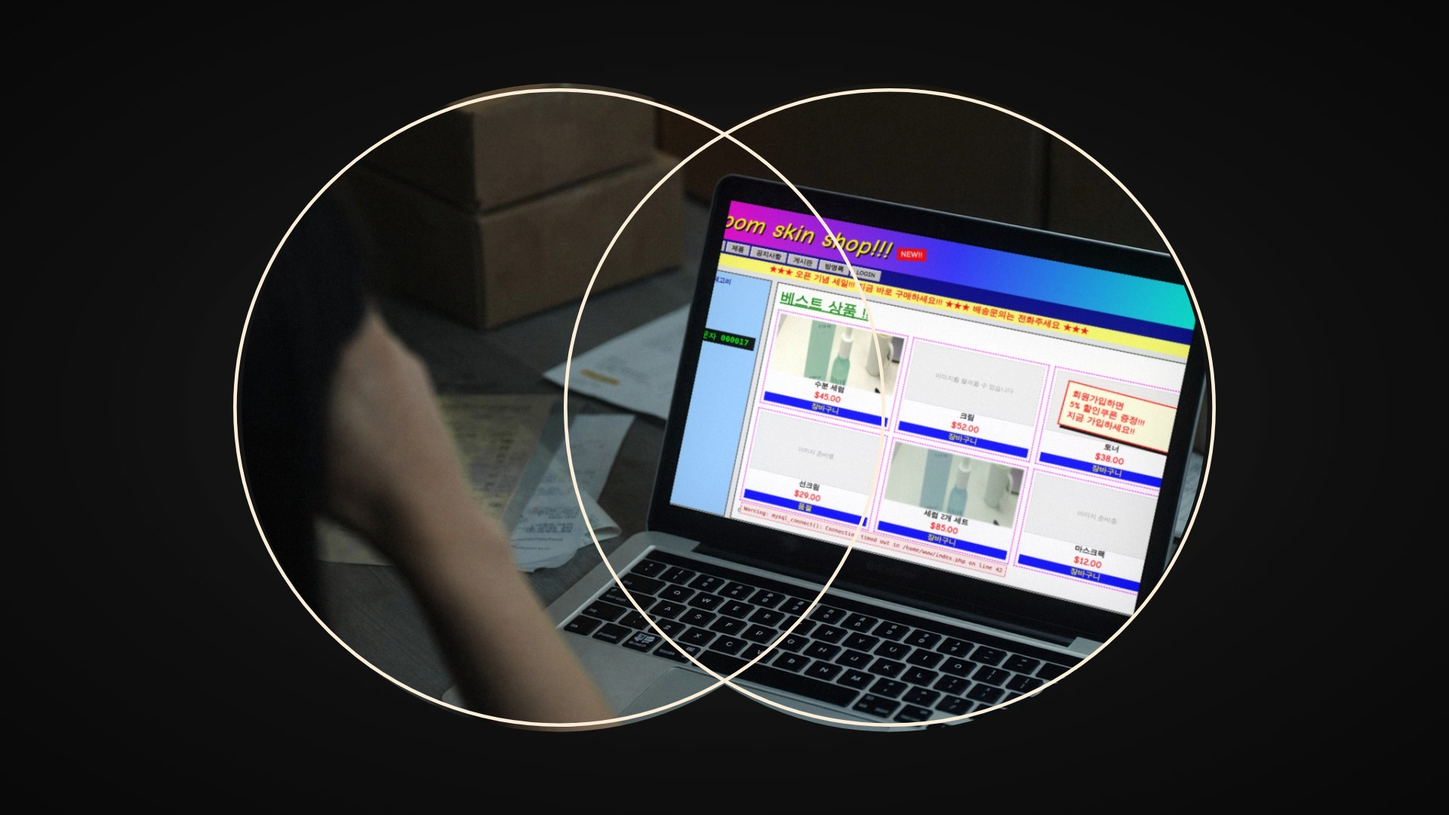
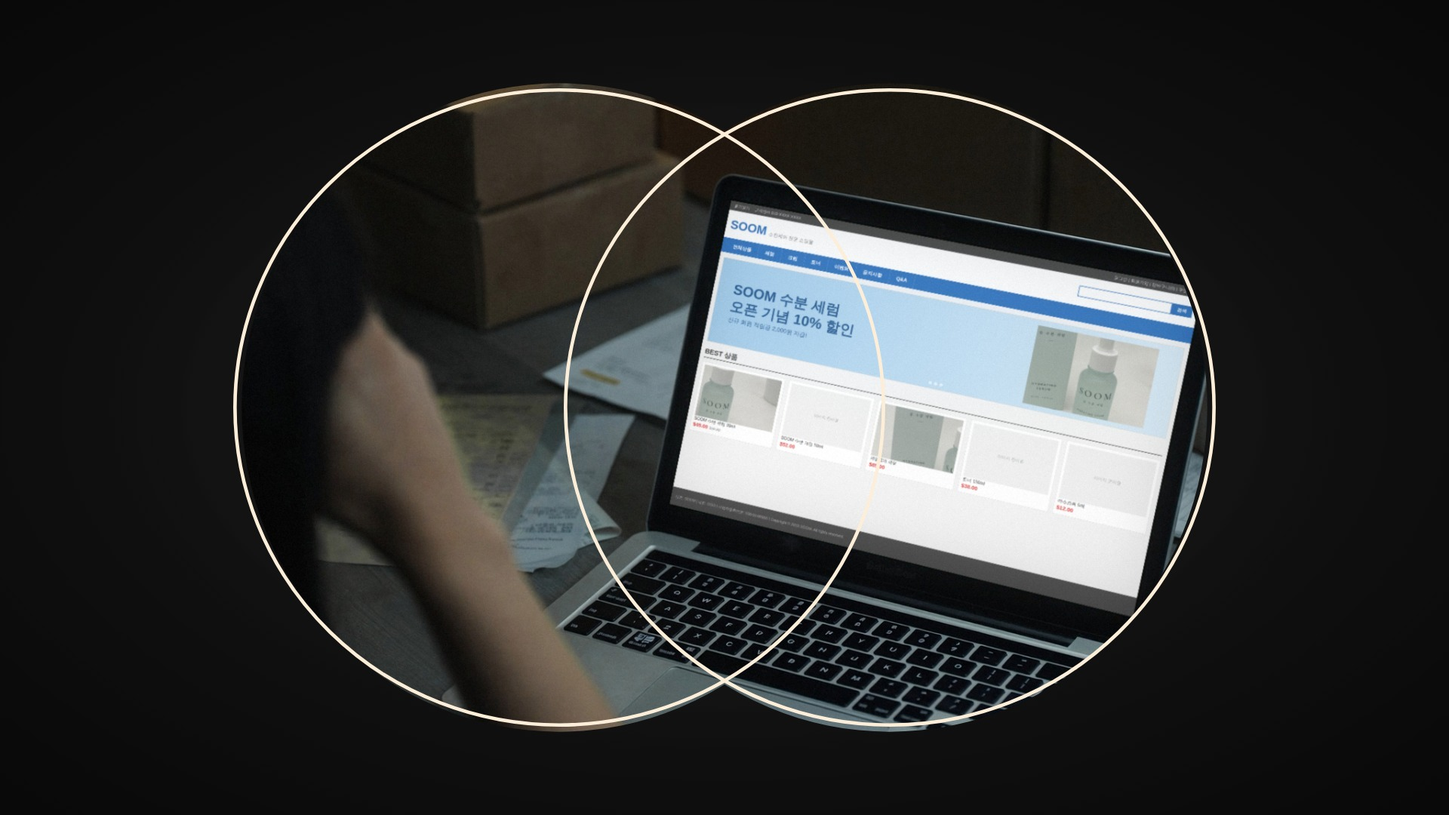
19차 콘티 보완: 후진 쇼핑몰을 과하지 않게, 실제 고객에 Blooming 추가
- 형광 그라데이션·코믹 글꼴·오류 문구를 빼고 오래된 쇼핑몰 템플릿 수준으로
- 실제 고객 장면에 Blooming(카페 손님 아이폰) 추가, 약 27초로 시간 조정
- 보드 번호·시간 갱신, 진행 상태 기록

Claude-Session: https://claude.ai/code/session_01GweQDuTCduZ8GdRrypzcWU

Changed region(s): [[0.4375, 0.2444, 0.8438, 0.7639]]

diff --git a/drafts/v19/board.html b/drafts/v19/board.html
@@ -7,7 +7,7 @@ h2{font-size:40px;margin:56px 0 24px;padding-left:18px;border-left:8px solid #E8
 .two{display:grid;grid-template-columns:1fr 1fr;gap:10px}
 .n{position:absolute;left:18px;top:16px;width:52px;height:52px;border-radius:50%;background:#F3EADB;color:#111;font:700 28px/52px M;text-align:center}
 figcaption{font-size:29px;margin-top:16px;line-height:1.4}figcaption b{color:#9d9487;margin-right:12px;font-size:26px}
-</style></head><body><h1>PAUSE STUDIO 첫 화면 영상 콘티 (약 25초, 무한 반복)</h1>
+</style></head><body><h1>PAUSE STUDIO 첫 화면 영상 콘티 (약 27초, 무한 반복)</h1>
 <p class="s">후진 쇼핑몰과 관리비에 지친 사장님 → PAUSE가 사진 한 장으로 광고 영상과 새 쇼핑몰을 → 주문은 늘고 유지보수비는 $0 → 실제 고객들 → 로고</p>
 <p style="font-size:26px;color:#9d9487">SOOM은 이 영상을 위해 만든 가상의 쇼핑몰입니다(실제 업체 아님).</p>
-<h2>고통 — 후진 쇼핑몰, 주문 0건, 쌓이는 관리비</h2><div class="g"><figure class=""><div class="ph"><img src="shots/s01-logo.jpg"><span class="n">1</span></div><figcaption><b>0:00</b> 로고로 시작</figcaption></figure><figure class=""><div class="ph"><img src="shots/s02-open.jpg"><span class="n">2</span></div><figcaption><b>0:01.5</b> 두 원이 렌즈처럼 열리며</figcaption></figure><figure class=""><div class="ph"><img src="shots/s03-pain-site.jpg"><span class="n">3</span></div><figcaption><b>0:02.5</b> 밤, 누가 봐도 후진 쇼핑몰 앞에서 머리를 감싼 사장님</figcaption></figure><figure class="w"><div class="ph"><div class="two"><img src="shots/s04-pain-phone.jpg"><img src="shots/s04b-pain-close.jpg"></div><span class="n">4</span></div><figcaption><b>0:04.5</b> 휴대폰 알림이 쌓임 → 다가가면: 오늘 주문 0건 · 유지보수비 $180 청구 · 호스팅 $320</figcaption></figure></div><h2>해결 — PAUSE STUDIO</h2><div class="g"><figure class=""><div class="ph"><img src="shots/s05-pause.jpg"><span class="n">5</span></div><figcaption><b>0:07</b> 화면이 "일시정지"되듯 멈추고 PAUSE의 두 원이 지나감</figcaption></figure><figure class=""><div class="ph"><img src="shots/s06-before.jpg"><span class="n">6</span></div><figcaption><b>0:08</b> 사장님이 휴대폰으로 찍은 제품 사진 한 장(박스·라벨 그대로)</figcaption></figure><figure class=""><div class="ph"><img src="shots/s07-promo-water.jpg"><span class="n">7</span></div><figcaption><b>0:09</b> → AI 홍보영상: 맑은 물가</figcaption></figure><figure class="w"><div class="ph"><div class="two"><img src="shots/s08-promo-silk.jpg"><img src="shots/s08b-promo-end.jpg"></div><span class="n">8</span></div><figcaption><b>0:10</b> → 세럼 물결 · 마무리 "Skin that breathes."</figcaption></figure><figure class=""><div class="ph"><img src="shots/s09-new-site.jpg"><span class="n">9</span></div><figcaption><b>0:11.5</b> 아침, 새 쇼핑몰 — 첫 화면에서 그 광고 영상이 재생</figcaption></figure><figure class="w"><div class="ph"><div class="two"><img src="shots/s10-orders-phone.jpg"><img src="shots/s10b-orders-close.jpg"></div><span class="n">10</span></div><figcaption><b>0:13.5</b> 새 주문 알림이 쌓이고 마지막 줄: PAUSE STUDIO · 유지보수비 $0</figcaption></figure></div><h2>실제 고객 웹사이트</h2><div class="g"><figure class=""><div class="ph"><img src="shots/s11-chemilife.jpg"><span class="n">11</span></div><figcaption><b>0:16</b> Chemilife</figcaption></figure><figure class=""><div class="ph"><img src="shots/s12-chillenq.jpg"><span class="n">12</span></div><figcaption><b>0:18</b> ChillenQ</figcaption></figure><figure class=""><div class="ph"><img src="shots/s13-kvibe.jpg"><span class="n">13</span></div><figcaption><b>0:20</b> K-VIBE</figcaption></figure><figure class=""><div class="ph"><img src="shots/s14-dongdaemun.jpg"><span class="n">14</span></div><figcaption><b>0:22</b> 동대문</figcaption></figure></div><h2>반복</h2><div class="g"><figure class=""><div class="ph"><img src="shots/s15-freeze.jpg"><span class="n">15</span></div><figcaption><b>0:24</b> 멈추며 두 원이 그려짐</figcaption></figure><figure class=""><div class="ph"><img src="shots/s01-logo.jpg"><span class="n">16</span></div><figcaption><b>0:25</b> 로고 = 처음 장면 → 끝없이 반복</figcaption></figure></div></body></html>
+<h2>고통 — 후진 쇼핑몰, 주문 0건, 쌓이는 관리비</h2><div class="g"><figure class=""><div class="ph"><img src="shots/s01-logo.jpg"><span class="n">1</span></div><figcaption><b>0:00</b> 로고로 시작</figcaption></figure><figure class=""><div class="ph"><img src="shots/s02-open.jpg"><span class="n">2</span></div><figcaption><b>0:01.5</b> 두 원이 렌즈처럼 열리며</figcaption></figure><figure class=""><div class="ph"><img src="shots/s03-pain-site.jpg"><span class="n">3</span></div><figcaption><b>0:02.5</b> 밤, 오래되고 촌스러운 쇼핑몰 앞에서 머리를 감싼 사장님</figcaption></figure><figure class="w"><div class="ph"><div class="two"><img src="shots/s04-pain-phone.jpg"><img src="shots/s04b-pain-close.jpg"></div><span class="n">4</span></div><figcaption><b>0:04.5</b> 휴대폰 알림이 쌓임 → 다가가면: 오늘 주문 0건 · 유지보수비 $180 청구 · 호스팅 $320</figcaption></figure></div><h2>해결 — PAUSE STUDIO</h2><div class="g"><figure class=""><div class="ph"><img src="shots/s05-pause.jpg"><span class="n">5</span></div><figcaption><b>0:07</b> 화면이 "일시정지"되듯 멈추고 PAUSE의 두 원이 지나감</figcaption></figure><figure class=""><div class="ph"><img src="shots/s06-before.jpg"><span class="n">6</span></div><figcaption><b>0:08</b> 사장님이 휴대폰으로 찍은 제품 사진 한 장(박스·라벨 그대로)</figcaption></figure><figure class=""><div class="ph"><img src="shots/s07-promo-water.jpg"><span class="n">7</span></div><figcaption><b>0:09</b> → AI 홍보영상: 맑은 물가</figcaption></figure><figure class="w"><div class="ph"><div class="two"><img src="shots/s08-promo-silk.jpg"><img src="shots/s08b-promo-end.jpg"></div><span class="n">8</span></div><figcaption><b>0:10</b> → 세럼 물결 · 마무리 "Skin that breathes."</figcaption></figure><figure class=""><div class="ph"><img src="shots/s09-new-site.jpg"><span class="n">9</span></div><figcaption><b>0:11.5</b> 아침, 새 쇼핑몰 — 첫 화면에서 그 광고 영상이 재생</figcaption></figure><figure class="w"><div class="ph"><div class="two"><img src="shots/s10-orders-phone.jpg"><img src="shots/s10b-orders-close.jpg"></div><span class="n">10</span></div><figcaption><b>0:13.5</b> 새 주문 알림이 쌓이고 마지막 줄: PAUSE STUDIO · 유지보수비 $0</figcaption></figure></div><h2>실제 고객 웹사이트</h2><div class="g"><figure class=""><div class="ph"><img src="shots/s11a-blooming.jpg"><span class="n">11</span></div><figcaption><b>0:16</b> Blooming — 카페 손님 아이폰</figcaption></figure><figure class=""><div class="ph"><img src="shots/s11-chemilife.jpg"><span class="n">12</span></div><figcaption><b>0:18</b> Chemilife</figcaption></figure><figure class=""><div class="ph"><img src="shots/s12-chillenq.jpg"><span class="n">13</span></div><figcaption><b>0:20</b> ChillenQ</figcaption></figure><figure class=""><div class="ph"><img src="shots/s13-kvibe.jpg"><span class="n">14</span></div><figcaption><b>0:22</b> K-VIBE</figcaption></figure><figure class=""><div class="ph"><img src="shots/s14-dongdaemun.jpg"><span class="n">15</span></div><figcaption><b>0:24</b> 동대문</figcaption></figure></div><h2>반복</h2><div class="g"><figure class=""><div class="ph"><img src="shots/s15-freeze.jpg"><span class="n">16</span></div><figcaption><b>0:26</b> 멈추며 두 원이 그려짐</figcaption></figure><figure class=""><div class="ph"><img src="shots/s01-logo.jpg"><span class="n">17</span></div><figcaption><b>0:27</b> 로고 = 처음 장면 → 끝없이 반복</figcaption></figure></div></body></html>

diff --git a/drafts/v19/screens/ugly-site.html b/drafts/v19/screens/ugly-site.html
@@ -1,32 +1,30 @@
-<!doctype html><html><head><meta charset="utf-8"><link href="https://fonts.googleapis.com/css2?family=Comic+Neue:wght@700&family=Nanum+Pen+Script&display=swap" rel="stylesheet"><style>
-*{margin:0;padding:0;box-sizing:border-box}html,body{width:1920px;height:1200px;overflow:hidden;background:#E6E6E6;font-family:'Comic Neue',sans-serif}
-.top{height:150px;background:linear-gradient(90deg,#FF00CC,#3333FF,#00FFCC);display:flex;align-items:center;padding-left:40px}
-.top h1{font:700 92px/1 'Comic Neue';color:#FFFF00;text-shadow:5px 5px 0 #000;font-style:italic}
-.top span{margin-left:30px;font:700 30px/1 'Comic Neue';color:#fff;background:red;padding:8px 14px;transform:rotate(-8deg)}
-.nav{height:56px;background:#000080;display:flex;gap:6px;padding:8px}.nav a{background:#C0C0C0;border:3px outset #fff;font:700 24px/34px 'Comic Neue';padding:0 18px;color:#000}
-.mq{height:46px;background:#FFFF66;color:#FF0000;font:700 30px/46px 'Comic Neue';white-space:nowrap;overflow:hidden;padding-left:300px}
-.wrap{display:flex;padding:20px;gap:20px}
-.side{width:300px;background:#99CCFF;border:4px ridge #888;padding:14px;font:700 24px/1.6 'Comic Neue';color:#000080}
-.side .cnt{margin-top:20px;background:#000;color:#0F0;font:700 30px/1 monospace;padding:10px;text-align:center}
-.main{flex:1;background:#fff;border:4px ridge #888;padding:20px;position:relative}
-.main h2{font:700 54px/1.1 'Comic Neue';color:#008000;text-decoration:underline}
-.grid{display:grid;grid-template-columns:repeat(3,1fr);gap:18px;margin-top:20px}
-.p{border:3px dashed #f0f;padding:10px;text-align:center;font:700 26px/1.3 'Comic Neue'}
-.p .im{height:220px;background:#ddd url(src/before.png) 50% 40%/100% 260%;filter:saturate(2.2) contrast(1.5) blur(1.2px)}
-.p .x{height:220px;background:#eee;display:flex;align-items:center;justify-content:center;font:400 22px/1 sans-serif;color:#999;border:1px solid #bbb}
-.p b{color:red;font-size:34px}.p em{display:block;margin-top:6px;background:#00f;color:#ff0;font-style:normal}
-.pop{position:absolute;right:40px;top:150px;width:420px;background:#FFFFE0;border:4px solid red;box-shadow:10px 10px 0 #000;padding:20px;font:700 30px/1.3 'Comic Neue';color:red;transform:rotate(3deg)}
-.pop i{position:absolute;right:10px;top:4px;font-style:normal;color:#000}
-.err{position:absolute;left:30px;bottom:24px;font:400 20px/1.3 monospace;color:#900;background:#fee;border:1px solid #c00;padding:8px 12px}
+<!doctype html><html><head><meta charset="utf-8"><style>
+*{margin:0;padding:0;box-sizing:border-box}html,body{width:1920px;height:1200px;overflow:hidden;background:#F2F2F2;font-family:Gulim,'Malgun Gothic','Noto Sans KR',Arial,sans-serif;color:#333}
+.topbar{height:36px;background:#444;color:#ccc;font-size:15px;line-height:36px;padding:0 120px;display:flex;gap:20px}.topbar .r{margin-left:auto}
+header{height:110px;background:#fff;border-bottom:3px solid #2A6EBB;display:flex;align-items:center;padding:0 120px}
+.logo{font:bold 46px/1 Arial,sans-serif;color:#2A6EBB}.logo small{font-size:18px;color:#888;margin-left:10px;font-weight:normal}
+.search{margin-left:auto;display:flex}.search i{width:320px;height:40px;border:2px solid #2A6EBB}.search b{width:70px;height:40px;background:#2A6EBB;color:#fff;font:bold 16px/40px Arial;text-align:center}
+nav{height:54px;background:#2A6EBB;display:flex;padding:0 120px}nav a{color:#fff;font:bold 18px/54px Arial;padding:0 26px;border-right:1px solid #5590d0}
+.banner{margin:20px 120px 0;height:330px;background:linear-gradient(90deg,#9FC9E8,#D7EAF6);position:relative;overflow:hidden;border:1px solid #ccc}
+.banner .im{position:absolute;right:80px;top:20px;width:420px;height:290px;background:url(src/before.png) 55% 50%/230% auto;filter:contrast(1.05)}
+.banner h2{position:absolute;left:60px;top:80px;font:bold 54px/1.2 Arial;color:#1D4F86}.banner p{position:absolute;left:62px;top:220px;font:22px/1 Arial;color:#2A5A90}
+.banner .dots{position:absolute;bottom:14px;left:50%;display:flex;gap:8px}.banner .dots i{width:12px;height:12px;border-radius:50%;background:#fff;opacity:.6}
+.sec{margin:26px 120px 0}.sec h3{font:bold 26px/1 Arial;border-bottom:2px solid #333;padding-bottom:10px}
+.grid{display:grid;grid-template-columns:repeat(5,1fr);gap:16px;margin-top:16px}
+.p{background:#fff;border:1px solid #ddd;padding:10px;font:16px/1.4 Arial}.p .im{height:200px;background:#eee url(src/before.png) 72% 55%/300% auto;filter:blur(.6px) saturate(.8)}
+.p .im.na{background:#eee;display:flex;align-items:center;justify-content:center;color:#aaa;font-size:15px;filter:none}
+.p b{color:#D33;font-size:19px}.p s{color:#999;font-size:14px;margin-left:6px}
+footer{position:absolute;left:0;right:0;bottom:0;height:70px;background:#444;color:#aaa;font:14px/70px Arial;padding:0 120px}
 </style></head><body>
-<div class="top"><h1>soom skin shop!!!</h1><span>NEW!!</span></div>
-<div class="nav"><a>HOME</a><a>제품</a><a>공지사항</a><a>게시판</a><a>방명록</a><a>LOGIN</a></div>
-<div class="mq">★★★ 오픈 기념 세일!!! 지금 바로 구매하세요!!! ★★★ 배송문의는 전화주세요 ★★★</div>
-<div class="wrap"><div class="side">▶ 카테고리<br>- 세럼<br>- 크림<br>- 토너<br>- 기타<br><div class="cnt">방문자 000017</div></div>
-<div class="main"><h2>베스트 상품 !!</h2><div class="grid">
-<div class="p"><div class="im"></div>수분 세럼<br><b>$45.00</b><em>장바구니</em></div>
-<div class="p"><div class="x">이미지를 불러올 수 없습니다</div>크림<br><b>$52.00</b><em>장바구니</em></div>
-<div class="p"><div class="x">이미지를 불러올 수 없습니다</div>토너<br><b>$38.00</b><em>장바구니</em></div><div class="p"><div class="x">이미지 준비중</div>선크림<br><b>$29.00</b><em>품절</em></div><div class="p"><div class="im" style="filter:saturate(2.5) hue-rotate(40deg) blur(2px)"></div>세럼 2개 세트<br><b>$85.00</b><em>장바구니</em></div><div class="p"><div class="x">이미지 준비중</div>마스크팩<br><b>$12.00</b><em>장바구니</em></div></div>
-<div class="pop"><i>✕</i>회원가입하면<br>5% 할인쿠폰 증정!!!<br>지금 가입하세요!!</div>
-<p style="margin-top:22px;font:700 22px/1.4 'Comic Neue';color:#555">Copyright (c) 2019 soom skin shop. All rights reserved. | 사업자 정보 | 이용약관</p><div class="err">Warning: mysql_connect(): Connection timed out in /home/www/index.php on line 42</div></div></div>
+<div class="topbar"><span>즐겨찾기</span><span>고객센터 010-XXXX-XXXX</span><span class="r">로그인 | 회원가입 | 장바구니(0) | 주문조회</span></div>
+<header><span class="logo">SOOM<small>스킨케어 전문 쇼핑몰</small></span><div class="search"><i></i><b>검색</b></div></header>
+<nav><a>전체상품</a><a>세럼</a><a>크림</a><a>토너</a><a>이벤트</a><a>공지사항</a><a>Q&amp;A</a></nav>
+<div class="banner"><h2>SOOM 수분 세럼<br>오픈 기념 10% 할인</h2><p>신규 회원 적립금 2,000원 지급!</p><div class="im"></div><div class="dots"><i></i><i></i><i></i></div></div>
+<div class="sec"><h3>BEST 상품</h3><div class="grid">
+<div class="p"><div class="im"></div>SOOM 수분 세럼 30ml<br><b>$45.00</b><s>$50.00</s></div>
+<div class="p"><div class="im na">이미지 준비중</div>SOOM 수분 크림 50ml<br><b>$52.00</b></div>
+<div class="p"><div class="im" style="background-position:30% 40%"></div>세럼 2개 세트<br><b>$85.00</b></div>
+<div class="p"><div class="im na">이미지 준비중</div>토너 150ml<br><b>$38.00</b></div>
+<div class="p"><div class="im na">이미지 준비중</div>마스크팩 5매<br><b>$12.00</b></div></div></div>
+<footer>상호: SOOM | 대표: OOO | 사업자등록번호: 000-00-00000 | Copyright © 2019 SOOM. All rights reserved.</footer>
 </body></html>

diff --git a/tools/storyboard_v19.py b/tools/storyboard_v19.py
@@ -1,4 +1,4 @@
-"""19차(18차 흐름 유지 — 패키지가 있는 제품 사진, 레퍼런스처럼 절제된 광고 장면, 실제 앱 같은 알림 아이콘): 문제 → 해결 — 가상의 한인 스킨케어 쇼핑몰 SOOM(실제 업체 아님)
+"""19차(18차 흐름 유지, 후진 쇼핑몰은 과하지 않게 오래된 템플릿 수준, 실제 고객에 Blooming 포함 — 패키지가 있는 제품 사진, 레퍼런스처럼 절제된 광고 장면, 실제 앱 같은 알림 아이콘): 문제 → 해결 — 가상의 한인 스킨케어 쇼핑몰 SOOM(실제 업체 아님)
 고통: 밤, 후진 쇼핑몰·주문 0건·유지보수비/호스팅 청구 알림 → PAUSE 전환(두 원) → 휴대폰 제품 사진 → AI 홍보영상(초고속 물방울·뉴질랜드 해변)
 → 아침, 새 쇼핑몰(히어로 영상) → 새 주문 알림 + '유지보수비 $0' → 실제 고객 사이트 4곳 → 멈추며 로고(무한 반복)
 실행: python3 tools/storyboard_v18.py
@@ -57,7 +57,8 @@ def main():
     phone_close('solve-notif', 566, 's10b-orders-close')
     k = cv2.imread(str(ROOT / 'drafts' / 'v10' / 'screens' / 'src' / 'kvibe_5.png'))
     composite('s13-kvibe', 'v16-kvibe', k[:, :int(k.shape[0] * 1.55)], gain=1.0, **LOOK)
-    for src, dst in [(ROOT / 'drafts' / 'v12' / 'shots' / 'c4-home_chemilife.jpg', 's11-chemilife'),
+    for src, dst in [(ROOT / 'drafts' / 'v12' / 'shots' / 'c3-cafe_blooming.jpg', 's11a-blooming'),
+                     (ROOT / 'drafts' / 'v12' / 'shots' / 'c4-home_chemilife.jpg', 's11-chemilife'),
                      (ROOT / 'drafts' / 'v16' / 'shots' / 'c8-workshop_chillenq.jpg', 's12-chillenq'),
                      (ROOT / 'drafts' / 'v12' / 'shots' / 'c7-night_dongdaemun.jpg', 's14-dongdaemun'),
                      (ROOT / 'drafts' / 'v14' / 'shots' / 'loop-1-freeze.jpg', 's15-freeze'),

diff --git a/STATE.md b/STATE.md
@@ -9,7 +9,7 @@
 - 2차 히어로 시안 5개(`drafts/v2/`) → 사용자 평가: **다 별로. 로고를 메인으로 쓸 필요 없음. 영상이 '퍼온 게 아니라 직접 만든 것'으로 보여야 함.**
 - 전략 수립: `docs/HERO_VIDEO_STRATEGY.md` (실제 작업물·만드는 과정·한글 조립·방문자 반응 중심, 다음 시안은 움직이는 프로토타입). 추가 조건: **무한 반복해도 어색하지 않을 것 + 유지보수/관리비 무료 강조**(전략 문서에 반영). 
 - 사용자 확인(2026-10-06): ① **홍보영상 제작도 한다고 내세워도 됨** ② **실제 작업물 노출 OK — 사이트에서 좋은 것 골라 알아서** ③ 달 이름(1월~12월) 표기는 시안에 넣고 확인받기.
-- 진행: 3단 구조(후킹 인트로 → 무한 반복 작업물 벽 + 관리비 0원 → 고정 문구) 움직이는 시안 1개 → `drafts/v3/` (hero.html, MP4 2개, README). 반복 구간은 시간의 순수 함수라 첫·끝 프레임 일치 검증. → 사용자 피드백: 영상 느낌 없음(웹 효과 같음)·다이얼 최악·로고 작고 약함·폰트 기본 AI 같음. 4차 방향(영화 콘티) `docs/HERO_VIDEO_STRATEGY.md` 하단. → 사용자: 영상 전에 사진으로 느낌 먼저. 4차 콘티 스틸 완료 `drafts/v4/`(장면 4컷 실제 작업물 합성 + 첫 화면 서체 3안 A 격동명조2·B 정체·C AG 최정호, 보드 PAUSE_v4_storyboard.png). → 사용자: 칙칙하고 가난해 보임, 노트북은 애플로. → **5차 콘티 스틸 `drafts/v5/`**: 햇빛 드는 고급 공간(오크·대리석·트래버틴·생화) + Studio Display·MacBook Pro·iPhone, 실제 작업물 합성(`tools/storyboard_v5.py`), 첫 화면 밝은 버전 서체 3안(`tools/typeset_v5.py`, 캡처 `DRAFT_DIR=drafts/v5 node tools/capture_v4.cjs`), 보드 `PAUSE_v5_storyboard.png`. **서체·느낌 피드백 대기 → 확정 후 영상(Seedance) 제작.** 장면 B안(미사용)은 `higgsfield/raw/v5-*-b`. → 사용자: 같은 장면을 여러 장 보낸 것 지적, 너무 세팅된 가짜 느낌·영상미 없음. → **6차 `drafts/v6/`**: 사람이 일하는 실제 순간(스튜디오 밤·케이크 주방 아침·횡단보도 해 질 녘·비 오는 밤 식당), 장면당 1장, 보드 1장 `PAUSE_v6_storyboard.png`(`tools/storyboard_v6.py`). **규칙: 장면당 1장만 생성, 결과는 보드 1장으로만 보낸다.** → 사용자: 느낌 아주 좋음. 업체 정보 확정 — **K-VIBE=유학원·여행사, BLOOMING=케이크, 동대문=한식 주점(한 번만 사용), ChillenQ=냉장 설비 대기업(원본 `content/assets/portfolio/originals/chillenq_desktop_hero.webp`, 더 멋지게 리디자인 허용)**. 배경 뉴질랜드, 주인공 한국인, 주변인 현지인. 휴대폰 장면은 모바일 레이아웃으로. 소리 없는 영상. 길이는 히어로에 맞게 억지로 늘리거나 줄이지 않음. 크레딧은 사용자가 충전 예정. → **7차 `drafts/v7/`**: 6컷 약 21초(촬영 모니터→손님 휴대폰 매치컷 후킹, 편집 화면→첫 컷 모니터로 반복), 화면 재구성 `drafts/v7/screens/*.html`(캡처 `tools/capture_screens_v7.cjs`), 합성 `tools/storyboard_v7.py`, 보드 `PAUSE_v7_storyboard.png`. 자막은 HTML 오버레이(초안 문구). → **사용자 정정: PAUSE는 촬영하지 않음. '영상제작' = 업체가 가진 사진·이미지로 만드는 AI 홍보영상.** 컷 1(카메라 촬영)·컷 6(스튜디오 카메라)은 사실과 달라 교체 필요. 자막 방식에 대한 의견 요청 → 의견: 흘러가는 자막 대신 화면 속 글자(휴대폰 채팅·사이트 화면)로 이야기하고, 핵심 문구는 히어로의 고정 제목·버튼이 담당. → **8차 `drafts/v8/`**("사진만 보내주세요"): 사장님이 채팅으로 사진 전송 → 사진이 AI 홍보영상으로 → 손님 휴대폰 속 사이트 → 동대문·ChillenQ·K-VIBE → 작업실 알림으로 반복, 7컷 약 21초, 자막 없음. 화면 `drafts/v8/screens`(캡처 `tools/capture_screens_v8.cjs`), 합성 `tools/storyboard_v8.py`, 보드 `PAUSE_v8_storyboard.png`. → 사용자: ChillenQ 사이트 안 예쁨·장면이 설정샷, 사이트 화면은 살짝 바꿔도 되니 제대로 보이게, 사이트 히어로는 영상, 동대문 실제 가게 사진 전달(검은 간판 DONG DE MOON·유리문·바깥 흰 의자 — 제3자 리뷰 사진이라 저장소에 넣지 않음). **라이브 사이트 접속은 사용자가 거절 → 하지 않음.** → **9차 `drafts/v9/`**: 동대문 간판 합성(`ddm-sign.html`), ChillenQ 실제 작업장 장면 + 밝은 리디자인(제품 사진은 시안용 생성 이미지에 실제 로고, 실제 제작 땐 원본으로 교체), 히어로 재생 표시, 합성 `tools/storyboard_v9.py`, 보드 `PAUSE_v9_storyboard.png`. → 사용자: 로고로 끝나고 그 모습에서 다시 시작하는 무한 루프, 동대문이 실제 사진과 너무 다름, **실사 카메라 화질·초점(AI 티 금지)이 중요.** → **10차 `drafts/v10/`**: 전 장면을 실제 카메라·렌즈 기준 프롬프트로 재생성(soul/cinema가 모델 비교에서 가장 실사적), 동대문 화강암 벽·검은 간판·유리문·크림색 의자, 합성에 유리 반사·LCD 검정·미세 부드러움, 로고 루프(멈춤→두 원 그리기→로고 카드=첫 프레임→두 원이 렌즈처럼 열리며 컷 1, `drafts/v10/screens/loop-*.html`), 약 24초. 합성 `tools/storyboard_v10.py`, 보드 `PAUSE_v10_storyboard.png`. → 사용자: 동대문이 아직 사진과 다름, 밤, 현지인·한국인이 막걸리(금색 주전자)·소주로 신나게, 사장님 얼굴 금지. → **11차 `drafts/v11/`**: 사용자 사진 2장을 참고 이미지로 qwen-image-3/edit → 실제 가게 그대로(간판·포스터·DDM 네온), 사장님 뒷모습. 참고 사진·업로드 주소는 저장소에 넣지 않음(.gitignore, 기록 마스킹). 보드 `PAUSE_v11_storyboard.png`. → 사용자: 흐릿한 이미지는 알아서 개선, 동대문 사람들이 과장돼 AI 티, **Chemilife(Ref.09, 건강기능식품 온라인 주문 쇼핑몰) 추가**, AI 홍보영상 제작을 표현. → **12차 `drafts/v12/`**: 8컷 약 27초(+로고 루프), 컷 2를 'AI 홍보영상 생성' 화면으로, 케이크 고화질(qwen edit), Chemilife 모바일(`chemilife-mobile.html`), 동대문 자연스럽게(초점 휴대폰), 합성 `tools/storyboard_v12.py`, 캡처 `tools/capture_screens_v12.cjs`, 보드 `PAUSE_v12_storyboard.png`. → 사용자: 화면 속 글자가 안 보임. → **13차 `drafts/v13/`**: 이야기 전하는 컷(1 채팅·2 AI 홍보영상·8 알림)을 화면 클로즈업/전체 화면으로, 글자 크게, 휴대폰 너비 390px 미리보기로 가독성 확인. **규칙: 화면 속 글자는 390px 너비에서도 읽혀야 함.** 보드 `PAUSE_v13_storyboard.png`. → 사용자: 콘티 이해 안 됨, 채팅의 파비콘·'사진만 보내주세요 → AI 홍보영상 + 웹사이트' 문구가 허접함, AI 영상 예시는 Blooming 말고 **가상의 레퍼런스**로. → **14차 `drafts/v14/`(현재안)**: 채팅·파비콘·설명 문구 전부 제거. 가상 카페 ONDO COFFEE(실제 업체 아님): 평범한 사진 → 빛이 지나가며 광고 장면 → 그 영상이 걸린 ONDO 웹사이트(`screens/ondo-laptop.html`) → 실제 고객 사이트 4곳(Chemilife·ChillenQ·K-VIBE·동대문) → 멈추며 로고 → 로고로 다시 시작. 약 21초. 합성 `tools/storyboard_v14.py`, 번호 매긴 단순 보드 `PAUSE_v14_storyboard.png`. → 사용자: 5번 AI 영상 부자연스러움(15차에서 자연스럽게 했으나 '커피 김만 나는 건 홍보영상이 아님, 기술력을 보여줘야'), 8·9번 구도가 설정샷(16차 `drafts/v16`에서 옆에서 찍은 듯한 구도로 재생성), 관리비·유지보수비 무료를 알 수 있게, 로고 초점 오프닝은 아주 좋음, **허접한 웹사이트로 고통받는 내용(주문 0건·관리비·호스팅비 스트레스)을 레퍼런스와 다른 새 쇼핑몰로.** 후보는 보여주지 말 것. → **18차 `drafts/v18/`(현재안)**: 가상 스킨케어 쇼핑몰 SOOM(실제 업체 아님). 고통(후진 쇼핑몰·주문 0건·유지보수비 $180·호스팅 $320 알림) → PAUSE 두 원 전환 → 휴대폰 제품 사진 → AI 광고(초고속 물방울·뉴질랜드 해변, 라벨 합성) → 새 쇼핑몰 → 새 주문 + 'PAUSE STUDIO · 유지보수비 $0' → 실제 고객 4곳 → 로고 루프, 약 25초. 화면 `drafts/v18/screens`, 합성 `tools/storyboard_v18.py`, 보드 `PAUSE_v18_storyboard.png`. → 사용자: 앱 아이콘 이상·허접, 포장 없는 병이 광고가 되는 건 어색(패키지가 있어야), 광고 장면 과하고 촌스러움 — 레퍼런스 4장(맑은 물·조개, 파스텔 세럼 물결, 립스틱 매크로+세리프 글자, K-뷰티 캠페인; 제3자 이미지라 저장소에 넣지 않음). → **19차 `drafts/v19/`(현재안)**: SOOM 패키지 디자인(`pack/box.html`·`label.html`) → 그 패키지를 찍은 평범한 사진 → 절제된 광고 장면(맑은 물가·세럼 물결·마무리 'Skin that breathes. / 숨 쉬는 피부'), 밝은 톤 새 쇼핑몰, iOS식 알림 아이콘(PAUSE는 두 원 로고 마크). 합성 `tools/storyboard_v19.py`, 보드 `PAUSE_v19_storyboard.png`. 피드백 대기.
+- 진행: 3단 구조(후킹 인트로 → 무한 반복 작업물 벽 + 관리비 0원 → 고정 문구) 움직이는 시안 1개 → `drafts/v3/` (hero.html, MP4 2개, README). 반복 구간은 시간의 순수 함수라 첫·끝 프레임 일치 검증. → 사용자 피드백: 영상 느낌 없음(웹 효과 같음)·다이얼 최악·로고 작고 약함·폰트 기본 AI 같음. 4차 방향(영화 콘티) `docs/HERO_VIDEO_STRATEGY.md` 하단. → 사용자: 영상 전에 사진으로 느낌 먼저. 4차 콘티 스틸 완료 `drafts/v4/`(장면 4컷 실제 작업물 합성 + 첫 화면 서체 3안 A 격동명조2·B 정체·C AG 최정호, 보드 PAUSE_v4_storyboard.png). → 사용자: 칙칙하고 가난해 보임, 노트북은 애플로. → **5차 콘티 스틸 `drafts/v5/`**: 햇빛 드는 고급 공간(오크·대리석·트래버틴·생화) + Studio Display·MacBook Pro·iPhone, 실제 작업물 합성(`tools/storyboard_v5.py`), 첫 화면 밝은 버전 서체 3안(`tools/typeset_v5.py`, 캡처 `DRAFT_DIR=drafts/v5 node tools/capture_v4.cjs`), 보드 `PAUSE_v5_storyboard.png`. **서체·느낌 피드백 대기 → 확정 후 영상(Seedance) 제작.** 장면 B안(미사용)은 `higgsfield/raw/v5-*-b`. → 사용자: 같은 장면을 여러 장 보낸 것 지적, 너무 세팅된 가짜 느낌·영상미 없음. → **6차 `drafts/v6/`**: 사람이 일하는 실제 순간(스튜디오 밤·케이크 주방 아침·횡단보도 해 질 녘·비 오는 밤 식당), 장면당 1장, 보드 1장 `PAUSE_v6_storyboard.png`(`tools/storyboard_v6.py`). **규칙: 장면당 1장만 생성, 결과는 보드 1장으로만 보낸다.** → 사용자: 느낌 아주 좋음. 업체 정보 확정 — **K-VIBE=유학원·여행사, BLOOMING=케이크, 동대문=한식 주점(한 번만 사용), ChillenQ=냉장 설비 대기업(원본 `content/assets/portfolio/originals/chillenq_desktop_hero.webp`, 더 멋지게 리디자인 허용)**. 배경 뉴질랜드, 주인공 한국인, 주변인 현지인. 휴대폰 장면은 모바일 레이아웃으로. 소리 없는 영상. 길이는 히어로에 맞게 억지로 늘리거나 줄이지 않음. 크레딧은 사용자가 충전 예정. → **7차 `drafts/v7/`**: 6컷 약 21초(촬영 모니터→손님 휴대폰 매치컷 후킹, 편집 화면→첫 컷 모니터로 반복), 화면 재구성 `drafts/v7/screens/*.html`(캡처 `tools/capture_screens_v7.cjs`), 합성 `tools/storyboard_v7.py`, 보드 `PAUSE_v7_storyboard.png`. 자막은 HTML 오버레이(초안 문구). → **사용자 정정: PAUSE는 촬영하지 않음. '영상제작' = 업체가 가진 사진·이미지로 만드는 AI 홍보영상.** 컷 1(카메라 촬영)·컷 6(스튜디오 카메라)은 사실과 달라 교체 필요. 자막 방식에 대한 의견 요청 → 의견: 흘러가는 자막 대신 화면 속 글자(휴대폰 채팅·사이트 화면)로 이야기하고, 핵심 문구는 히어로의 고정 제목·버튼이 담당. → **8차 `drafts/v8/`**("사진만 보내주세요"): 사장님이 채팅으로 사진 전송 → 사진이 AI 홍보영상으로 → 손님 휴대폰 속 사이트 → 동대문·ChillenQ·K-VIBE → 작업실 알림으로 반복, 7컷 약 21초, 자막 없음. 화면 `drafts/v8/screens`(캡처 `tools/capture_screens_v8.cjs`), 합성 `tools/storyboard_v8.py`, 보드 `PAUSE_v8_storyboard.png`. → 사용자: ChillenQ 사이트 안 예쁨·장면이 설정샷, 사이트 화면은 살짝 바꿔도 되니 제대로 보이게, 사이트 히어로는 영상, 동대문 실제 가게 사진 전달(검은 간판 DONG DE MOON·유리문·바깥 흰 의자 — 제3자 리뷰 사진이라 저장소에 넣지 않음). **라이브 사이트 접속은 사용자가 거절 → 하지 않음.** → **9차 `drafts/v9/`**: 동대문 간판 합성(`ddm-sign.html`), ChillenQ 실제 작업장 장면 + 밝은 리디자인(제품 사진은 시안용 생성 이미지에 실제 로고, 실제 제작 땐 원본으로 교체), 히어로 재생 표시, 합성 `tools/storyboard_v9.py`, 보드 `PAUSE_v9_storyboard.png`. → 사용자: 로고로 끝나고 그 모습에서 다시 시작하는 무한 루프, 동대문이 실제 사진과 너무 다름, **실사 카메라 화질·초점(AI 티 금지)이 중요.** → **10차 `drafts/v10/`**: 전 장면을 실제 카메라·렌즈 기준 프롬프트로 재생성(soul/cinema가 모델 비교에서 가장 실사적), 동대문 화강암 벽·검은 간판·유리문·크림색 의자, 합성에 유리 반사·LCD 검정·미세 부드러움, 로고 루프(멈춤→두 원 그리기→로고 카드=첫 프레임→두 원이 렌즈처럼 열리며 컷 1, `drafts/v10/screens/loop-*.html`), 약 24초. 합성 `tools/storyboard_v10.py`, 보드 `PAUSE_v10_storyboard.png`. → 사용자: 동대문이 아직 사진과 다름, 밤, 현지인·한국인이 막걸리(금색 주전자)·소주로 신나게, 사장님 얼굴 금지. → **11차 `drafts/v11/`**: 사용자 사진 2장을 참고 이미지로 qwen-image-3/edit → 실제 가게 그대로(간판·포스터·DDM 네온), 사장님 뒷모습. 참고 사진·업로드 주소는 저장소에 넣지 않음(.gitignore, 기록 마스킹). 보드 `PAUSE_v11_storyboard.png`. → 사용자: 흐릿한 이미지는 알아서 개선, 동대문 사람들이 과장돼 AI 티, **Chemilife(Ref.09, 건강기능식품 온라인 주문 쇼핑몰) 추가**, AI 홍보영상 제작을 표현. → **12차 `drafts/v12/`**: 8컷 약 27초(+로고 루프), 컷 2를 'AI 홍보영상 생성' 화면으로, 케이크 고화질(qwen edit), Chemilife 모바일(`chemilife-mobile.html`), 동대문 자연스럽게(초점 휴대폰), 합성 `tools/storyboard_v12.py`, 캡처 `tools/capture_screens_v12.cjs`, 보드 `PAUSE_v12_storyboard.png`. → 사용자: 화면 속 글자가 안 보임. → **13차 `drafts/v13/`**: 이야기 전하는 컷(1 채팅·2 AI 홍보영상·8 알림)을 화면 클로즈업/전체 화면으로, 글자 크게, 휴대폰 너비 390px 미리보기로 가독성 확인. **규칙: 화면 속 글자는 390px 너비에서도 읽혀야 함.** 보드 `PAUSE_v13_storyboard.png`. → 사용자: 콘티 이해 안 됨, 채팅의 파비콘·'사진만 보내주세요 → AI 홍보영상 + 웹사이트' 문구가 허접함, AI 영상 예시는 Blooming 말고 **가상의 레퍼런스**로. → **14차 `drafts/v14/`(현재안)**: 채팅·파비콘·설명 문구 전부 제거. 가상 카페 ONDO COFFEE(실제 업체 아님): 평범한 사진 → 빛이 지나가며 광고 장면 → 그 영상이 걸린 ONDO 웹사이트(`screens/ondo-laptop.html`) → 실제 고객 사이트 4곳(Chemilife·ChillenQ·K-VIBE·동대문) → 멈추며 로고 → 로고로 다시 시작. 약 21초. 합성 `tools/storyboard_v14.py`, 번호 매긴 단순 보드 `PAUSE_v14_storyboard.png`. → 사용자: 5번 AI 영상 부자연스러움(15차에서 자연스럽게 했으나 '커피 김만 나는 건 홍보영상이 아님, 기술력을 보여줘야'), 8·9번 구도가 설정샷(16차 `drafts/v16`에서 옆에서 찍은 듯한 구도로 재생성), 관리비·유지보수비 무료를 알 수 있게, 로고 초점 오프닝은 아주 좋음, **허접한 웹사이트로 고통받는 내용(주문 0건·관리비·호스팅비 스트레스)을 레퍼런스와 다른 새 쇼핑몰로.** 후보는 보여주지 말 것. → **18차 `drafts/v18/`(현재안)**: 가상 스킨케어 쇼핑몰 SOOM(실제 업체 아님). 고통(후진 쇼핑몰·주문 0건·유지보수비 $180·호스팅 $320 알림) → PAUSE 두 원 전환 → 휴대폰 제품 사진 → AI 광고(초고속 물방울·뉴질랜드 해변, 라벨 합성) → 새 쇼핑몰 → 새 주문 + 'PAUSE STUDIO · 유지보수비 $0' → 실제 고객 4곳 → 로고 루프, 약 25초. 화면 `drafts/v18/screens`, 합성 `tools/storyboard_v18.py`, 보드 `PAUSE_v18_storyboard.png`. → 사용자: 앱 아이콘 이상·허접, 포장 없는 병이 광고가 되는 건 어색(패키지가 있어야), 광고 장면 과하고 촌스러움 — 레퍼런스 4장(맑은 물·조개, 파스텔 세럼 물결, 립스틱 매크로+세리프 글자, K-뷰티 캠페인; 제3자 이미지라 저장소에 넣지 않음). → **19차 `drafts/v19/`(현재안)**: SOOM 패키지 디자인(`pack/box.html`·`label.html`) → 그 패키지를 찍은 평범한 사진 → 절제된 광고 장면(맑은 물가·세럼 물결·마무리 'Skin that breathes. / 숨 쉬는 피부'), 밝은 톤 새 쇼핑몰, iOS식 알림 아이콘(PAUSE는 두 원 로고 마크). 합성 `tools/storyboard_v19.py`, 보드 `PAUSE_v19_storyboard.png`. → 사용자: 다 좋음, 후진 웹사이트가 너무 과장됨(적당히 후진 정도로), Blooming이 빠짐 → 후진 쇼핑몰을 오래된 템플릿 수준으로 낮추고 실제 고객 5곳(Blooming·Chemilife·ChillenQ·K-VIBE·동대문), 약 27초. 피드백 대기.
 - 파비콘: 사용자가 PS 모노그램 타일을 직접 제작해 전달(2026-10-06) → 벡터·아이콘 세트 완료 `content/assets/logo/new/favicon/`. 사이트 제작 시 그대로 연결.
 - 서체: 로고(대비 큰 세리프)와 결이 맞는 마루 부리·AG 최정호 민부리 스크린이 유력. 2차 시안 5개에서 안별로 다른 조합을 시험.
 
